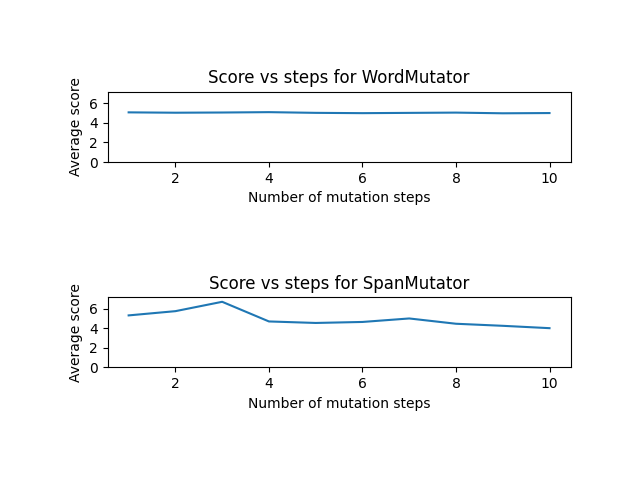
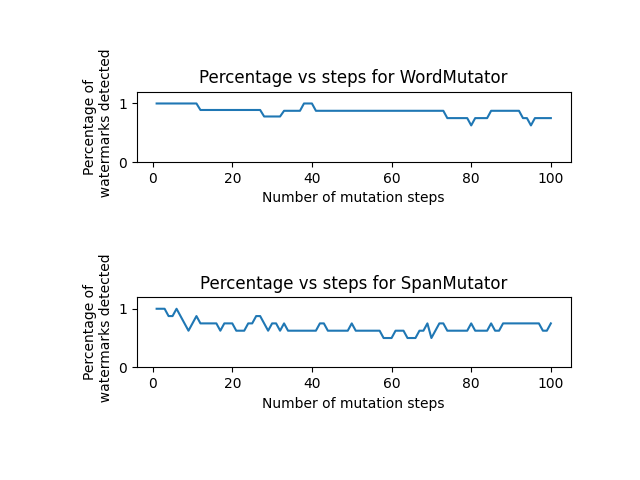
forgot to commit

diff --git a/mutator_results.py b/mutator_results.py
@@ -10,7 +10,8 @@ for index, row in tqdm(tests_df.iterrows(), desc='Tests'):
     if row["mutation_step"] not in data[row["mutator"]]:
         data[row["mutator"]][row["mutation_step"]] = [0,0]
     data[row["mutator"]][row["mutation_step"]][1] += 1
-    data[row["mutator"]][row["mutation_step"]][0] += row['score']
+    if row["is_detected"]:
+        data[row["mutator"]][row["mutation_step"]][0] += 1
 print(data)
 for i in data:
     for j in data[i]:
@@ -25,11 +26,10 @@ df.to_csv("./results/mutator_watermark_percent.csv")
 fig, ax = plt.subplots(len(data))
 for i, mut in enumerate(data.keys()):
     ax[i].plot(data[mut].keys(), [i[0]/i[1] for i in data[mut].values()])
-    ax[i].set_title(f"Watermark Z-Score vs steps for {mut}")
+    ax[i].set_title(f"Percentage vs steps for {mut}")
     ax[i].set_xlabel("Number of mutation steps")
-    ax[i].set_ylabel("Average score")
-    ax[i].set_ylim([0, 7.2])
-    ax[i].set_yticks([0,2,4,6])
+    ax[i].set_ylabel("Percentage of\n  watermarks detected")
+    ax[i].set_ylim([0,1.2])
 fig.tight_layout(pad=5.0)
 plt.show()
 plt.savefig("mutator.png")
